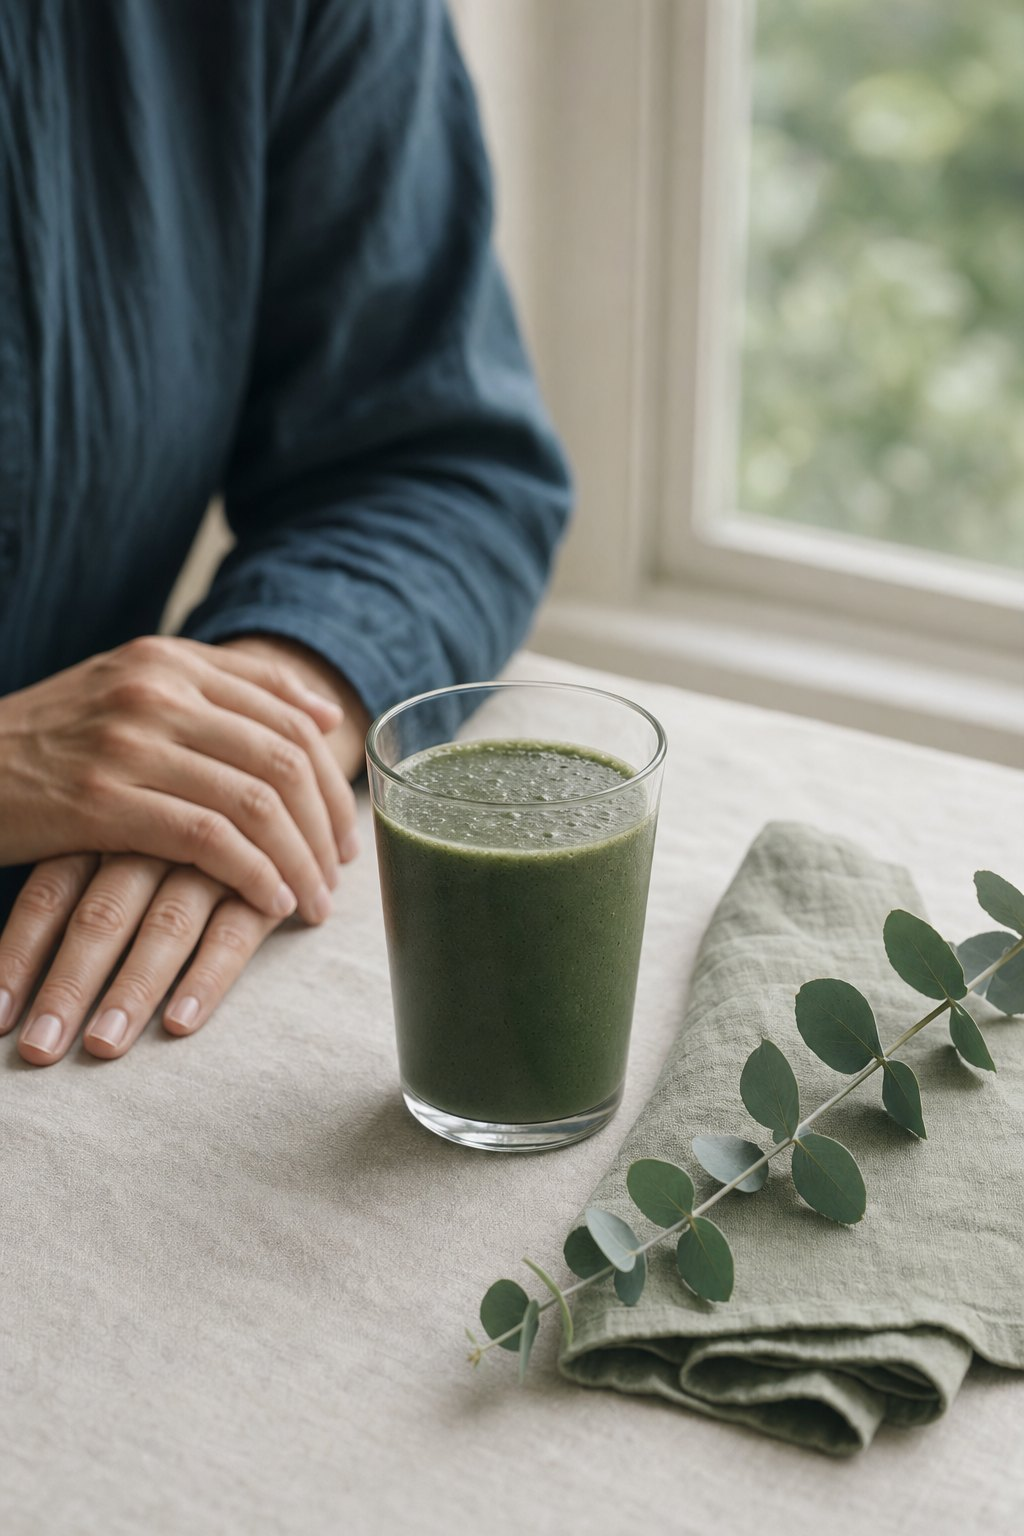
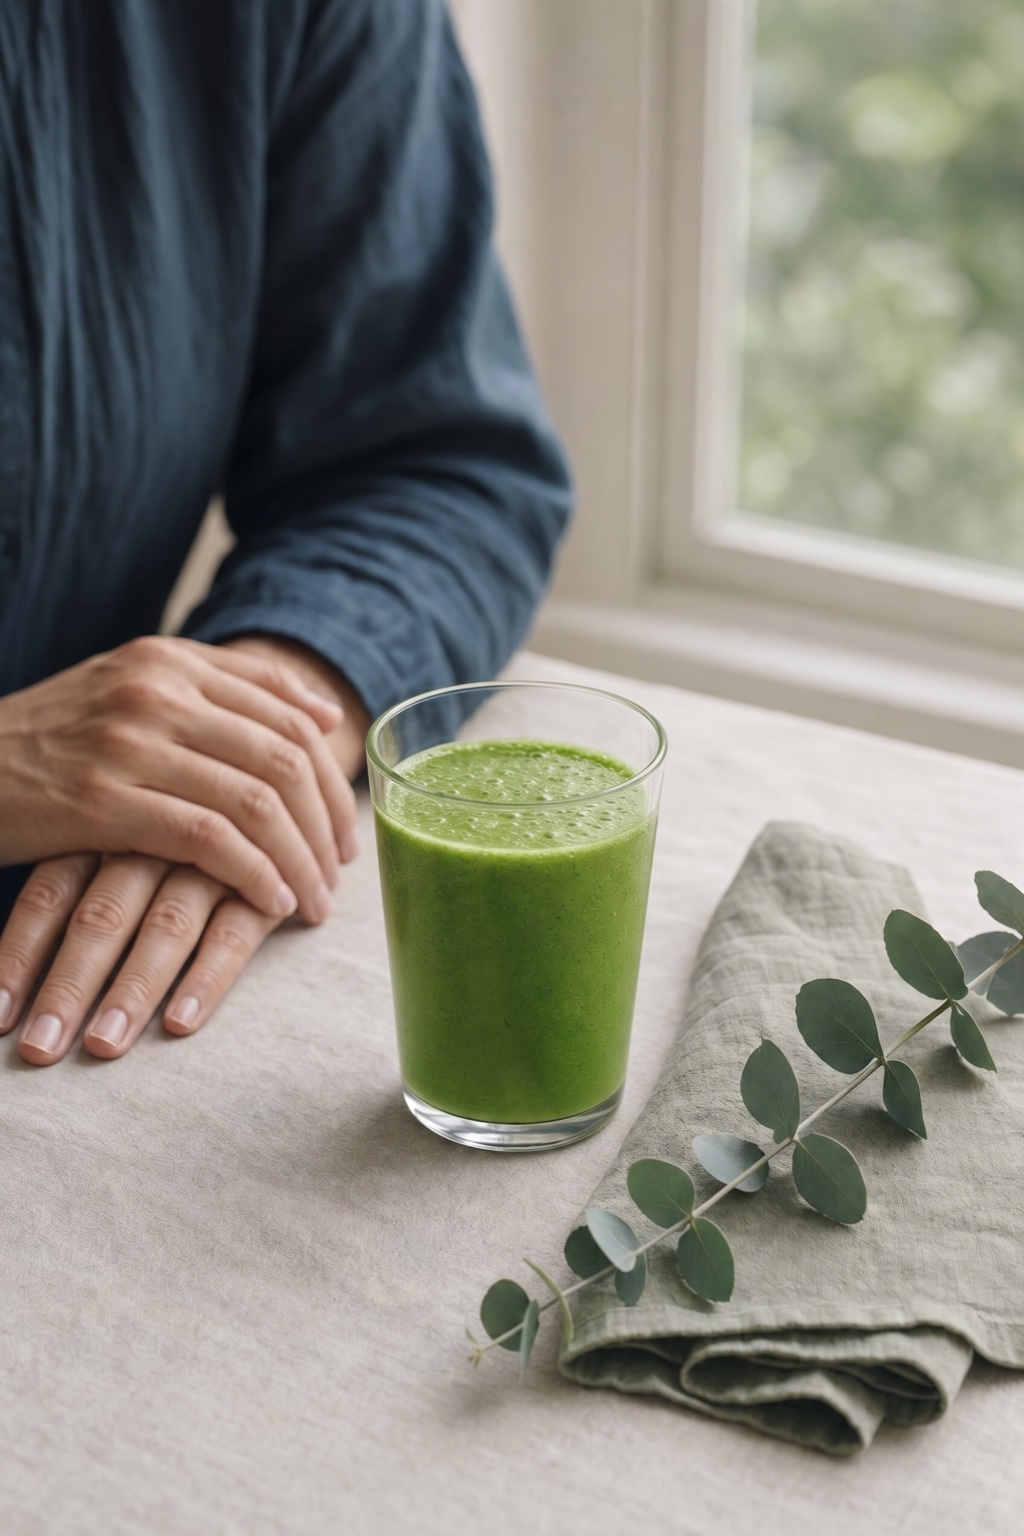
Product imagery: true drink colors, box+sachet renders, scene refresh
- Recolored lifestyle glasses to real powder colors (TeenFocus creamy
  with flax, KidRise pale peach-orange, Reset glasses in the
  Adaptability greens); served locally under public/images/glasses
- Client box renders (verified against scrambled source filenames)
  exported with correct names to public/images/boxes and shown on the
  /stages and /reset category carousels: carton with its sachets
- Homepage StagesCarousel links get the missing locale prefix; section
  logos sized with height:auto to clear the next/image warning
- Breakfast scene now muesli; Stages/Reset philosophy scenes refreshed

diff --git a/app/[locale]/stages/page.tsx b/app/[locale]/stages/page.tsx
@@ -19,22 +19,23 @@ interface Product {
     ageRange: string;
 }
 
+// Composed client renders — carton with its sachets standing beside it
 const products: Product[] = [
     {
         id: 'kidgrow',
-        image: blob('products/kid-grow.png'),
+        image: '/images/boxes/kidgrow-box.png',
         link: '/stages/kidgrow',
         ageRange: '4-7',
     },
     {
         id: 'kidrise',
-        image: blob('products/kid-rise.png'),
+        image: '/images/boxes/kidrise-box.png',
         link: '/stages/kidrise',
         ageRange: '8-12',
     },
     {
         id: 'teenfocus',
-        image: blob('products/teen-focus.png'),
+        image: '/images/boxes/teenfocus-box.png',
         link: '/stages/teenfocus',
         ageRange: '13-16',
     },
@@ -190,8 +191,8 @@ export default function StagesCategoryPage() {
                                                     <Image
                                                         src={currentProduct.image}
                                                         alt={productData.title}
-                                                        width={350}
-                                                        height={500}
+                                                        width={800}
+                                                        height={565}
                                                         className="product-image"
                                                         priority
                                                     />

diff --git a/app/[locale]/reset/page.tsx b/app/[locale]/reset/page.tsx
@@ -18,15 +18,16 @@ interface Product {
     link: string;
 }
 
+// Composed client renders — carton with its sachets standing beside it
 const products: Product[] = [
     {
         id: 'balance',
-        image: blob('products/balance_front.png'),
+        image: '/images/boxes/reset-balance-box.png',
         link: '/reset/balance',
     },
     {
         id: 'intense',
-        image: blob('products/intense_front.png'),
+        image: '/images/boxes/reset-intense-box.png',
         link: '/reset/intense',
     },
 ];
@@ -171,8 +172,8 @@ export default function ResetCategoryPage() {
                                                     <Image
                                                         src={currentProduct.image}
                                                         alt={productData.title}
-                                                        width={400}
-                                                        height={520}
+                                                        width={800}
+                                                        height={532}
                                                         className="product-image"
                                                         priority
                                                     />

diff --git a/app/components/StagesCarousel.tsx b/app/components/StagesCarousel.tsx
@@ -37,7 +37,7 @@ const PRODUCT_DATA = [
         id: 'kidrise',
         href: '/stages/kidrise',
         productImage: blob('products/kid-rise.png'),
-        lifestyleImage: blob('glasses/kid-rise-glass.png'),
+        lifestyleImage: '/images/glasses/kid-rise-glass-v2.jpg',
         accent: 'var(--kidrise)',
         tint: 'var(--kidrise-tint)'
     },
@@ -45,7 +45,7 @@ const PRODUCT_DATA = [
         id: 'teenfocus',
         href: '/stages/teenfocus',
         productImage: blob('products/teen-focus.png'),
-        lifestyleImage: blob('glasses/teen-focus-glass.png'),
+        lifestyleImage: '/images/glasses/teen-focus-glass-v2.jpg',
         accent: 'var(--teenfocus)',
         tint: 'var(--teenfocus-tint)'
     }
@@ -58,7 +58,7 @@ export default function StagesCarousel() {
     const [isPaused, setIsPaused] = useState(false);
     const [direction, setDirection] = useState<'next' | 'prev'>('next');
     const reduce = useReducedMotion();
-    const { t } = useLanguage();
+    const { t, language } = useLanguage();
 
     // Combine static data with translations
     const productKeys = ['kidgrow', 'kidrise', 'teenfocus'] as const;
@@ -67,6 +67,7 @@ export default function StagesCarousel() {
         const translations = t.mainPage.stagesCarousel.products[key];
         return {
             ...product,
+            href: `/${language}${product.href}`,
             title: translations.title,
             tagline: translations.tagline,
             desc: translations.desc,
@@ -119,7 +120,7 @@ export default function StagesCarousel() {
                             alt="Stages"
                             width={400}
                             height={140}
-                            style={{ objectFit: 'contain' }}
+                            style={{ objectFit: 'contain', height: 'auto' }}
                         />
                     </div>
                     <p className={styles.subheading}>

diff --git a/app/components/ResetSpotlight.tsx b/app/components/ResetSpotlight.tsx
@@ -28,14 +28,14 @@ const PRODUCT_DATA = [
     {
         id: 'balance',
         productImage: blob('products/balance_front.png'),
-        lifestyleImage: blob('glasses/reset-balance-glass.png'),
+        lifestyleImage: '/images/glasses/reset-balance-glass-v2.jpg',
         accent: 'var(--balance)',
         tint: 'var(--balance-tint)'
     },
     {
         id: 'intense',
         productImage: blob('products/intense_front.png'),
-        lifestyleImage: blob('glasses/reset-intense-glass.png'),
+        lifestyleImage: '/images/glasses/reset-intense-glass-v2.jpg',
         accent: 'var(--intense)',
         tint: 'var(--intense-tint)'
     }
@@ -110,7 +110,7 @@ export default function ResetSpotlight() {
                             alt="Reset"
                             width={400}
                             height={140}
-                            style={{ objectFit: 'contain' }}
+                            style={{ objectFit: 'contain', height: 'auto' }}
                         />
                     </div>
                     <p className={styles.subheading}>